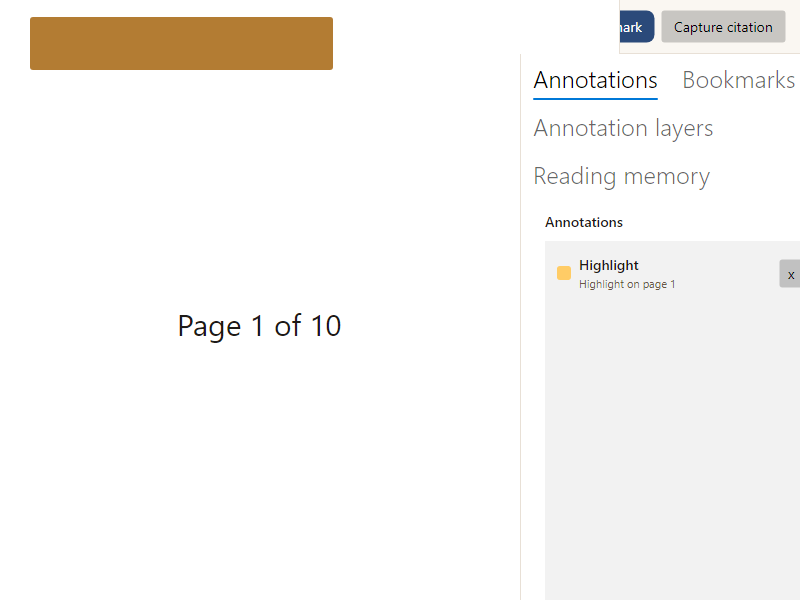
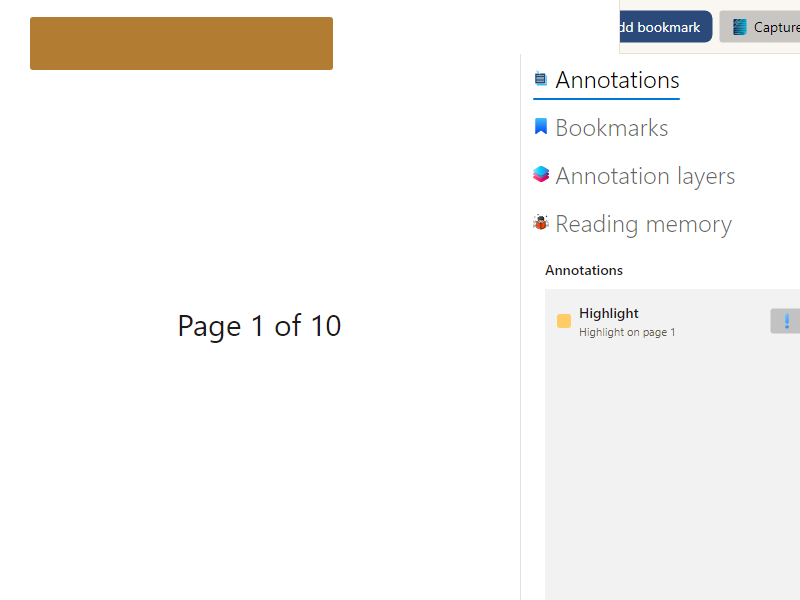
docs: refresh phase 09 screenshots

diff --git a/docs/plans/grand-plan/phase-09/evidence.md b/docs/plans/grand-plan/phase-09/evidence.md
@@ -75,6 +75,7 @@ Recorded local commands. The latest full-suite aggregate is authoritative:
 | `dotnet test tests\OgmaLibrary.Tests.Ui\OgmaLibrary.Tests.Ui.csproj --configuration Release --filter "FullyQualifiedName~ReaderView_LayerVisibilityCheckbox_FiltersAnnotationsAndOverlays"` | Passed: 1 focused layer visibility checkbox filtering test |
 | `dotnet test tests\OgmaLibrary.Tests.Ui\OgmaLibrary.Tests.Ui.csproj --configuration Release --filter "FullyQualifiedName~ReaderView_LayerPanelMutatingControls_InvokeRenderedHandlers\|FullyQualifiedName~ReaderView_LayerVisibilityCheckbox_FiltersAnnotationsAndOverlays\|FullyQualifiedName~ReaderView_LayerActions_DisabledWhenOnlyOneLayerRemains\|FullyQualifiedName~ReaderViewModel_RenameLayer_UpdatesLayerAndStatus"` | Passed: 4 layer UI/view-model tests covering rendered add, filter, rename-on-blur, merge, delete, visibility, last-layer disabled actions, and layer rename binding |
 | `dotnet test tests\OgmaLibrary.Tests.Ui\OgmaLibrary.Tests.Ui.csproj --configuration Release --filter "FullyQualifiedName~ReaderView_BookmarkDirectControls_InvokeRenderedHandlers\|FullyQualifiedName~ReaderView_BookmarkPanelKeyboard_ArrowSelectsAndEnterNavigates\|FullyQualifiedName~ReaderView_BookmarkContextFlyout_RenameFocusesEditorAndDeleteRemovesBookmark\|FullyQualifiedName~ReaderViewModel_RenameBookmark_UpdatesLabelAndStatus\|FullyQualifiedName~ReaderView_CtrlB_TogglesCurrentPageBookmark"` | Passed: 5 bookmark UI/view-model tests covering toolbar add, row navigate, row rename-on-blur, row delete, keyboard navigation, context-menu rename/delete, view-model rename, and Ctrl+B toggle |
+| `dotnet test tests\OgmaLibrary.Tests.Ui\OgmaLibrary.Tests.Ui.csproj --configuration Release --no-build --filter "FullyQualifiedName~ReaderView_RendersPhase09Panels_CapturesScreenshot\|FullyQualifiedName~MainWindow_AfterScan_ShowsScannedCount"` | Passed: 2 screenshot-generation tests refreshing `docs/developer-guide/images/reader-en.png` and `docs/developer-guide/images/scan-en.png` |
 | `dotnet test tests\OgmaLibrary.Tests.Ui\OgmaLibrary.Tests.Ui.csproj --configuration Release --filter "FullyQualifiedName~ReaderView_ReadingMemoryFieldLostFocus_AutoSavesEditedField"` | Passed: 1 focused reading-memory blur auto-save test |
 | `dotnet test tests\OgmaLibrary.Tests.Ui\OgmaLibrary.Tests.Ui.csproj --configuration Release --no-build --filter "FullyQualifiedName~SkeletonRenderTests\|FullyQualifiedName~BookDetailViewModel_ReadingMemory"` | Passed: 5 focused shell/book-detail UI tests, including book-detail reading-memory edit/save/summary refresh |
 | `dotnet test tests\OgmaLibrary.Tests.Ui\OgmaLibrary.Tests.Ui.csproj --configuration Release --filter "FullyQualifiedName~ReaderView_NoteEditorLostFocus_SavesEditedNote"` | Passed: 1 focused note editor blur-save test |
@@ -121,6 +122,7 @@ Recorded local commands. The latest full-suite aggregate is authoritative:
 | Annotation context menu | `ReaderView_AnnotationContextFlyout_DeleteOpensConfirmation`; `ReaderView_AnnotationDeleteConfirmation_ConfirmDeletesAnnotation`; `ReaderView_AnnotationDeleteConfirmation_CancelKeepsAnnotation`; annotation rows expose a context-flyout delete action that opens the confirmation prompt before repository deletion, the rendered Confirm button deletes the annotation/overlay, and the rendered Cancel button keeps the annotation intact | Automated coverage present |
 | Note editor keyboard dismissal | `ReaderView_NoteEditorEscape_ClosesEditorWithoutNavigating`; `ReaderView.axaml.cs` handles Escape on `NoteEditorTextBox` | Automated coverage present |
 | Icon registration, labels, and reader-surface wiring | `IconCatalog_Phase09ManifestKeys_AllResolve`; `IconCatalog_Phase09ManifestKeys_HaveAccessibleLabels`; `ReaderView_Phase09ControlsExposeActionSpecificAutomationNames`; `ReaderViewModel_NoteOverlay_ExposesAnchorMarker`; `ReaderView_NoteAnchorClick_OpensInlineNoteEditor`; `docs/plans/grand-plan/phase-09/icons.md` delivered asset mapping; reader toolbar, highlight color picker, selection menu, citation card, sidebar tab headers/panel toggles, bookmark panel including rename/remove actions, layer panel, note-anchor overlay button, annotation delete, and reading-memory actions including disposition render the delivered premium SVGs while retaining automation names | Key-named premium SVG registration and representative reader wiring verified |
+| Developer-guide screenshots | `ReaderView_RendersPhase09Panels_CapturesScreenshot`; `MainWindow_AfterScan_ShowsScannedCount`; `docs/developer-guide/images/reader-en.png`; `docs/developer-guide/images/scan-en.png` | Generated screenshots refreshed for current reader/icon and scan surfaces |
 | Overlay contrast | `ReaderViewModel_AnnotationOverlayColors_MeetContrastGate` | Automated contrast gate present |
 | Performance gates | `AnnotationOverlay_RenderOverhead_100Annotations_Under10msP95`; `AnnotationWrite_P95_Under200ms`; `CachedPageTurn_P95_With100Annotations_Under100ms`; `ReaderViewModel_PageTurnP95_With100AnnotationsPerPage_Under100ms`; focused Release no-build rerun on 2026-06-01 passed 4 tests | Automated performance coverage present |
 | Pseudolocale render | `ReaderView_PseudolocalePhase09Panels_RendersWithoutOversizedTextBounds`; screenshot `artifacts/screenshots/reader-qps-ploc.png` | Automated render evidence present |

diff --git a/docs/implementation/review-01-Jun-2026/phase-09-continuation-audit.md b/docs/implementation/review-01-Jun-2026/phase-09-continuation-audit.md
@@ -32,12 +32,13 @@ owner-gated:
 | Area | Evidence |
 | --- | --- |
 | Latest reviewed implementation scope | Bookmark sorting, rendered bookmark toolbar/row controls, reading-memory disposition label, active writable layer marker, strict direct-PDF selected-path registration, production-DI missing-`BookFiles` repair for direct open, reader file location, catalogue projections, and Choose Library Folder scans, same-hash unregistered-path folder-scan registration, delivered reader-icon rendering, actionable note anchors, reader keyboard shortcuts, citation clipboard copy/export behavior, touch-capable selection action buttons, performance gates, annotation context-flyout delete confirmation plus Confirm/Cancel button routes, rendered layer add/filter/rename/merge/delete controls, layer visibility checkbox filtering, reading-memory blur auto-save, book-detail reading-memory editing, note editor blur-save, French Phase 09 mojibake cleanup, explicit text-selection mapping service, manual signoff documentation source-of-truth cleanup, current evidence-count/test-name reconciliation, stale metadata filter cleanup, and task-exit/manual-gate wording cleanup |
-| Worktree | Expected to remain clean after this pass except unrelated/generated `docs/developer-guide/images/scan-en.png` and `docs/developer-guide/images/reader-en.png` |
+| Worktree | Expected to remain clean after this pass; generated developer-guide screenshots are now treated as committed documentation evidence when their screenshot tests refresh them |
 | CI workflow definition | `.github/workflows/ci.yml` includes Windows and macOS matrix jobs for restore, format, Release build, and Release tests |
 | Phase 09 evidence | `docs/plans/grand-plan/phase-09/evidence.md` dated 2026-06-01 with current focused and full-suite local test counts; latest Release full-suite run passed Architecture 15, Core 236, and UI 93 after rendered bookmark direct-control coverage |
 | Evidence/test-name cleanup | Follow-up sweeps refreshed stale architecture, catalogue/direct-open, metadata/direct-PDF, startup/direct-PDF, and selected-book enrichment counts; aligned `testing.md` with current implemented test names; removed the stale `BookMetadataEnrichment` filter token after the current metadata/direct-PDF/write-back slice still passed 76 tests |
 | Bookmark sorting | `23abfaa feat: add bookmark panel sorting`; `ReaderViewModel_BookmarkSortOptions_ReorderByPageOrCreationDate` covers page/date sorting |
 | Bookmark direct controls | `ReaderView_BookmarkDirectControls_InvokeRenderedHandlers` covers rendered toolbar add and row navigate, rename-on-blur, and delete handlers; `ReaderViewModel_RenameBookmark_UpdatesLabelAndStatus` remains the view-model rename oracle, and the rendered regression covers persisted-label rename binding |
+| Developer-guide screenshots | `ReaderView_RendersPhase09Panels_CapturesScreenshot`; `MainWindow_AfterScan_ShowsScannedCount`; refreshed `docs/developer-guide/images/reader-en.png` and `scan-en.png` after the delivered-icon and Phase 09 reader-surface updates |
 | Reading-memory disposition label | `29fa18d fix: expose reading memory disposition range`; focused reader UI tests cover the announced `Disposition (1-5)` label and existing validation |
 | Active writable layer marker | `ReaderViewModel_ActiveWritableLayerMarker_FollowsFirstVisibleLayer`; `ReaderView_Phase09ControlsExposeActionSpecificAutomationNames` covers the visible and announced active-layer marker |
 | Direct PDF open and folder scan hardening | `DirectPdfOpen_FuzzyMatch_RegistersSelectedPdfAsNewBook`; `DirectPdfOpen_SameHashAtUnregisteredPath_RegistersSelectedPdfAsNewBook`; `DirectPdfOpen_ProductionDi_RepairsMissingBookFilesTableBeforeRegisteringSelectedPdf`; `BookFileLocator_ProductionDi_RepairsMissingBookFilesTableBeforeQuerying`; `CatalogueReadModelTests.GetBookSummaries_RepairsMissingBookFilesTableBeforeProjectingAvailability`; `IngestionPipeline_ProductionDi_RepairsMissingBookFilesTableBeforeScanning`; `IngestionPipeline_SameHashAtUnregisteredPresentPath_RegistersNewBook`; migration/direct-open/startup/ingestion/reader-locator/catalogue-projection focused slices cover missing-table repair with production service registration, explicit selected-file registration behavior, immediate reader file location after selected-PDF registration, post-open shell catalogue refresh, Choose Library Folder scan registration, and coexisting same-hash path registration without breaking move/rename rematches |

diff --git a/docs/plans/grand-plan/phase-09/README.md b/docs/plans/grand-plan/phase-09/README.md
@@ -443,6 +443,8 @@ Current implementation progress:
   bypass the save route.
 - The latest local Release full-suite gate after the rendered bookmark pass is
   green: Architecture 15, Core 236, and UI 93 tests.
+- Developer-guide screenshots for the reader and scan surfaces were refreshed
+  from the UI screenshot tests after the delivered-icon reader updates.
 - The Release desktop app was rebuilt and relaunched after the direct-PDF
   missing-`BookFiles` repair and selected-PDF registration tests were rerun, so
   the running app is using the current direct-open path instead of a stale
@@ -518,3 +520,4 @@ Next steps before final Phase 09 closure:
 | 2026-06-01 | Added rendered layer lifecycle coverage and fixed inline layer rename after two-way binding | Codex |
 | 2026-06-01 | Added rendered bookmark direct-control coverage and fixed inline bookmark rename after two-way binding | Codex |
 | 2026-06-01 | Refreshed the local Release full-suite gate after bookmark direct-control coverage: Architecture 15, Core 236, UI 93 | Codex |
+| 2026-06-01 | Refreshed developer-guide reader and scan screenshots from the current UI screenshot tests | Codex |
